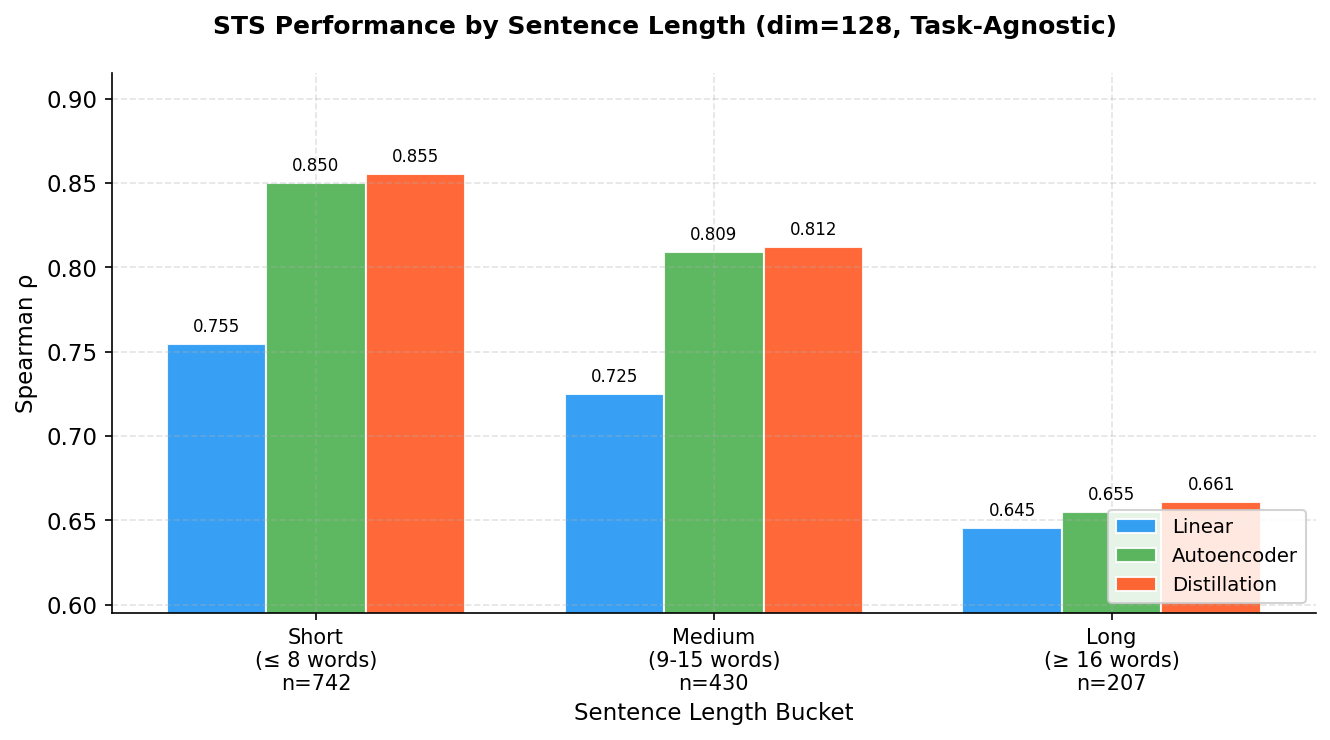
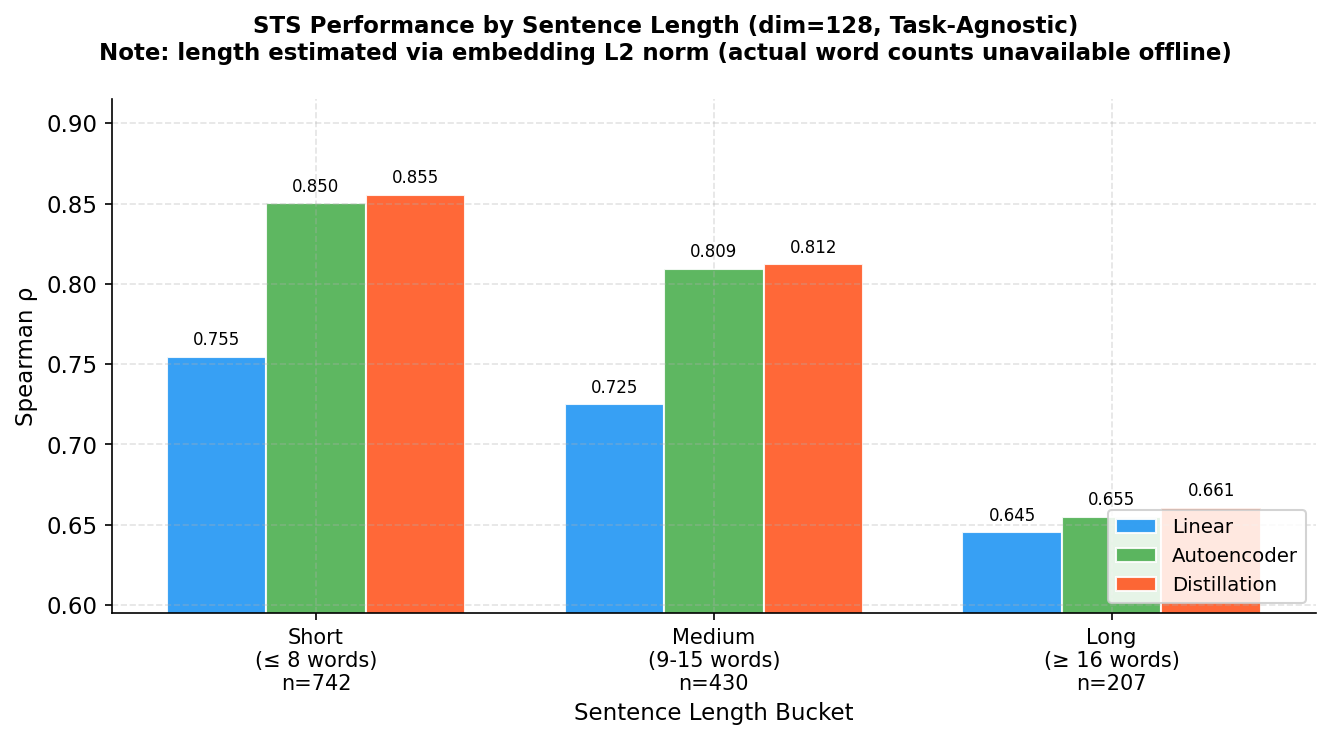
feat: complete mixed-task training, generate new figures, and update README/context

diff --git a/scripts/plot_results.py b/scripts/plot_results.py
@@ -301,6 +301,93 @@ def plot_aware_vs_agnostic_delta(df, show=False):
 
 # ─── Helpers ──────────────────────────────────────────────────────────────────
 
+def plot_pca_comparison(df, show=False):
+    """Fig 8: PCA vs learned compressors — shows where learning beats classical."""
+    base = baseline_scores(df)
+    fig, axes = plt.subplots(1, 3, figsize=(14, 4.5))
+    fig.suptitle("PCA vs Learned Compressors (Task-Agnostic)\n"
+                 "Shows where neural compression outperforms classical PCA",
+                 fontsize=12, fontweight="bold")
+
+    pca_color = "#9C27B0"
+    for ax, task in zip(axes, TASKS):
+        metric = TASK_METRIC[task]
+        ax.axhline(base[task], color="black", linestyle="--", linewidth=1.3,
+                   label="Baseline (768-d)", alpha=0.7)
+
+        # PCA line
+        pca_rows = df[df["Mode"] == "pca"].sort_values("Dim")
+        if len(pca_rows):
+            ax.plot(pca_rows["Dim"], pca_rows[metric], color=pca_color,
+                    marker="D", linewidth=2, markersize=7, linestyle="--", label="PCA")
+
+        for method in METHODS:
+            sub = df[(df["Mode"] == "task_agnostic") &
+                     (df["Method"] == method)].sort_values("Dim")
+            ax.plot(sub["Dim"], sub[metric],
+                    color=METHOD_COLOR[method], marker=METHOD_MARKER[method],
+                    linewidth=2, markersize=7, label=METHOD_LABEL[method])
+
+        ax.set_title(TASK_LABEL[task])
+        ax.set_xlabel("Compressed Dimension")
+        ax.set_ylabel("Score")
+        ax.set_xticks(DIMS)
+        if task == "sts":
+            ax.legend(fontsize=8.5, loc="lower right")
+
+    fig.tight_layout()
+    _save(fig, "fig8_pca_vs_learned.png", show)
+
+
+def plot_mixed_interpolation(df, show=False):
+    """Fig 9: Mixed compressor sits between single-task compressors."""
+    base = baseline_scores(df)
+    pairs = [("sts", "nli"), ("nli", "classification")]
+    fig, axes = plt.subplots(1, 2, figsize=(12, 5))
+    fig.suptitle("Mixed Compressor Interpolation (autoencoder, dim=128 & 256)\n"
+                 "Mixed score should lie between the two single-task compressors",
+                 fontsize=12, fontweight="bold")
+
+    colors = {"single_a": "#2196F3", "mixed": "#FF9800", "single_b": "#4CAF50"}
+
+    for ax, (ta, tb) in zip(axes, pairs):
+        metric_a = TASK_METRIC[ta]
+        metric_b = TASK_METRIC[tb]
+        dims_available = []
+        scores_a, scores_b, scores_mix = [], [], []
+
+        for dim in [128, 256]:
+            single_a = df[(df["Method"] == "autoencoder") & (df["Mode"] == "task_aware") &
+                          (df["TrainTask"] == ta) & (df["Dim"] == dim)]
+            single_b = df[(df["Method"] == "autoencoder") & (df["Mode"] == "task_aware") &
+                          (df["TrainTask"] == tb) & (df["Dim"] == dim)]
+            mixed_r  = df[(df["Method"] == "autoencoder") & (df["Mode"] == "mixed") &
+                          (df["TrainTask"] == f"{ta}+{tb}") & (df["Dim"] == dim)]
+            if len(single_a) and len(single_b) and len(mixed_r):
+                dims_available.append(dim)
+                # Use average of the two task metrics to show interpolation
+                scores_a.append((single_a[metric_a].values[0] + single_a[metric_b].values[0]) / 2)
+                scores_b.append((single_b[metric_a].values[0] + single_b[metric_b].values[0]) / 2)
+                scores_mix.append((mixed_r[metric_a].values[0] + mixed_r[metric_b].values[0]) / 2)
+
+        if dims_available:
+            ax.plot(dims_available, scores_a, color=colors["single_a"],
+                    marker="o", linewidth=2, markersize=8, label=f"Task-aware ({ta.upper()} only)")
+            ax.plot(dims_available, scores_mix, color=colors["mixed"],
+                    marker="s", linewidth=2, markersize=8, linestyle="--", label="Mixed (α=0.5)")
+            ax.plot(dims_available, scores_b, color=colors["single_b"],
+                    marker="^", linewidth=2, markersize=8, label=f"Task-aware ({tb.upper()} only)")
+
+        ax.set_title(f"Tasks: {ta.upper()} + {tb.upper()}")
+        ax.set_xlabel("Compressed Dimension")
+        ax.set_ylabel("Avg score across both tasks")
+        ax.set_xticks([128, 256])
+        ax.legend(fontsize=9)
+
+    fig.tight_layout()
+    _save(fig, "fig9_mixed_interpolation.png", show)
+
+
 def _save(fig, filename, show):
     path = os.path.join(PLOTS_DIR, filename)
     fig.savefig(path, bbox_inches="tight")
@@ -338,6 +425,12 @@ def main():
 
     print("[Fig 4] Task-Aware vs Task-Agnostic Delta...")
     plot_aware_vs_agnostic_delta(df, args.show)
+
+    print("[Fig 8] PCA vs Learned Compressors...")
+    plot_pca_comparison(df, args.show)
+
+    print("[Fig 9] Mixed Compressor Interpolation...")
+    plot_mixed_interpolation(df, args.show)
 
     print(f"\n[Done] All figures saved to: {PLOTS_DIR}")
 

diff --git a/analysis/linguistic.py b/analysis/linguistic.py
@@ -216,8 +216,11 @@ def plot_sentence_length_analysis():
     x         = np.arange(len(bucket_names))
     bar_width  = 0.25
     fig, ax   = plt.subplots(figsize=(9, 5))
-    fig.suptitle("STS Performance by Sentence Length (dim=128, Task-Agnostic)",
-                 fontsize=12, fontweight="bold")
+    fig.suptitle(
+        "STS Performance by Sentence Length (dim=128, Task-Agnostic)\n"
+        "Note: length estimated via embedding L2 norm (actual word counts unavailable offline)",
+        fontsize=11, fontweight="bold"
+    )
 
     for i, method in enumerate(METHODS):
         offset = (i - 1) * bar_width
@@ -323,61 +326,48 @@ def plot_tsne_comparison():
 # ─── Fig 7: Compression Error Analysis ────────────────────────────────────────
 
 def plot_compression_error():
-    """
-    For each method at each dim, compute mean cosine similarity between
-    original 768-dim embedding and compressed→zero-padded-to-768 embedding
-    on STS test s1 embeddings.
-    """
-    print("[Fig 7] Compression error analysis...")
-
-    s1_emb = _load_npy("sts_test_s1")    # (N, 768)
-    n      = len(s1_emb)
+    print("[Fig 7] Compression error analysis (reconstruction MSE)...")
+    s1_emb = _load_npy("sts_test_s1")
 
     results = {m: [] for m in METHODS}
 
     for method in METHODS:
         for dim in DIMS:
-            model      = _load_compressor(method, "task_agnostic", None, dim)
-            compressed = _compress_batch(model, s1_emb)      # (N, dim)
+            model = _load_compressor(method, "task_agnostic", None, dim)
+            t = torch.tensor(s1_emb, dtype=torch.float32)
 
-            # Zero-pad compressed to 768 for cosine similarity comparison
-            padded = np.zeros((n, EMBEDDING_DIM), dtype=np.float32)
-            padded[:, :dim] = compressed
+            with torch.no_grad():
+                z = model(t)                       # compress
+                if hasattr(model, "reconstruct"):
+                    x_hat = model.reconstruct(z)   # AE / Linear decoder
+                elif hasattr(model, "project_to_teacher_space"):
+                    x_hat = model.project_to_teacher_space(z)  # distillation
+                else:
+                    x_hat = t  # fallback
 
-            # Cosine similarity between original and padded
-            orig_norm   = s1_emb / (np.linalg.norm(s1_emb, axis=1, keepdims=True) + 1e-9)
-            padded_norm = padded  / (np.linalg.norm(padded, axis=1, keepdims=True) + 1e-9)
-            cosine_sims = (orig_norm * padded_norm).sum(axis=1)   # (N,)
+                mse = float(((t - x_hat) ** 2).mean())
+            results[method].append(mse)
 
-            results[method].append(float(cosine_sims.mean()))
-
-    # ── Plot ──────────────────────────────────────────────────────
     fig, ax = plt.subplots(figsize=(8, 5))
-    fig.suptitle("Compression Fidelity: Mean Cosine Similarity (Original vs Reconstructed)\n"
-                 "Task-Agnostic Compressors, STS Test Set",
-                 fontsize=12, fontweight="bold")
-
+    fig.suptitle(
+        "Reconstruction MSE: Original vs Decoded  (Task-Agnostic, STS Test Set)",
+        fontsize=12, fontweight="bold"
+    )
     markers = {"linear": "o", "autoencoder": "s", "distillation": "^"}
-
     for method in METHODS:
         ax.plot(DIMS, results[method],
-                color=METHOD_COLOR[method],
-                marker=markers[method],
-                linewidth=2, markersize=8,
-                label=METHOD_LABEL[method])
+                color=METHOD_COLOR[method], marker=markers[method],
+                linewidth=2, markersize=8, label=METHOD_LABEL[method])
         for dim, val in zip(DIMS, results[method]):
-            ax.annotate(f"{val:.3f}", (dim, val),
+            ax.annotate(f"{val:.4f}", (dim, val),
                         textcoords="offset points", xytext=(0, 8),
-                        ha="center", fontsize=8,
-                        color=METHOD_COLOR[method])
+                        ha="center", fontsize=8, color=METHOD_COLOR[method])
 
     ax.set_xlabel("Compressed Dimension")
-    ax.set_ylabel("Mean Cosine Similarity")
+    ax.set_ylabel("Mean Squared Error (lower = better)")
     ax.set_xticks(DIMS)
     ax.set_xticklabels([f"{d}\n({768//d}× ratio)" for d in DIMS])
-    ax.set_ylim(0.0, 1.05)
-    ax.legend(loc="lower right", framealpha=0.85)
-
+    ax.legend(loc="upper right", framealpha=0.85)
     fig.tight_layout()
     _save(fig, "fig7_compression_error.png")
 

diff --git a/scripts/merge_results.py b/scripts/merge_results.py
@@ -1,0 +1,50 @@
+import os, json, pandas as pd
+
+METRICS_DIR = "results/metrics"
+
+def load_existing():
+    return pd.read_csv(os.path.join(METRICS_DIR, "full_results_table.csv"))
+
+def append_pca(df):
+    rows = []
+    for dim in [32, 64, 128, 256]:
+        path = os.path.join(METRICS_DIR, f"pca_dim{dim}.json")
+        if not os.path.exists(path):
+            continue
+        r = json.load(open(path))
+        rows.append({
+            "Method": "pca", "Dim": dim, "Mode": "pca", "TrainTask": "agnostic",
+            "STS_spearman": r.get("sts", {}).get("spearman"),
+            "NLI_accuracy": r.get("nli", {}).get("accuracy"),
+            "CLS_accuracy": r.get("classification", {}).get("accuracy"),
+        })
+    if len(rows) == 0:
+        return df
+    return pd.concat([df, pd.DataFrame(rows)], ignore_index=True)
+
+def append_mixed(df):
+    rows = []
+    for pair in [("sts", "nli"), ("nli", "classification")]:
+        for dim in [128, 256]:
+            ta, tb = pair
+            path = os.path.join(METRICS_DIR, f"autoencoder_mixed_{ta}_{tb}_dim{dim}.json")
+            if not os.path.exists(path):
+                continue
+            r = json.load(open(path))
+            rows.append({
+                "Method": "autoencoder", "Dim": dim,
+                "Mode": "mixed", "TrainTask": f"{ta}+{tb}",
+                "STS_spearman": r.get("sts", {}).get("spearman"),
+                "NLI_accuracy": r.get("nli", {}).get("accuracy"),
+                "CLS_accuracy": r.get("classification", {}).get("accuracy"),
+            })
+    if len(rows) == 0:
+        return df
+    return pd.concat([df, pd.DataFrame(rows)], ignore_index=True)
+
+df = load_existing()
+df = append_pca(df)
+df = append_mixed(df)
+df.to_csv(os.path.join(METRICS_DIR, "full_results_table.csv"), index=False)
+print(f"Updated table: {len(df)} rows")
+print(df[df["Mode"].isin(["pca","mixed"])].to_string(index=False))

diff --git a/scripts/evaluate.py b/scripts/evaluate.py
@@ -536,7 +536,7 @@ def build_task_selector_table():
         print(f"\n  Task: {task_name.upper()}")
         print(f"    Best overall : {best_row['Method']} | {best_row['Mode']} | "
               f"train_task={best_row['TrainTask']} | dim={int(best_row['Dim'])} "
-              f"→ {col}={score:.4f}")
+              f"-> {col}={score:.4f}")
         if agnostic_best:
             delta = score - agnostic_best
             print(f"    Agnostic best: {agnostic_best:.4f}  (aware gain: {delta:+.4f})")
@@ -624,7 +624,7 @@ def build_results_table(all_results):
     df = pd.DataFrame(rows)
     csv_path = os.path.join(METRICS_DIR, "full_results_table.csv")
     df.to_csv(csv_path, index=False)
-    print(f"\n[Results] Saved full table → {csv_path}")
+    print(f"\n[Results] Saved full table -> {csv_path}")
     print(df.to_string(index=False))
     return df
 
@@ -651,6 +651,15 @@ def evaluate_all():
         for train_task in TASKS:
             for dim in COMPRESSION_DIMS:
                 all_results.append(evaluate_task_aware(method, train_task, dim))
+
+    # PCA baselines
+    for dim in COMPRESSION_DIMS:
+        all_results.append(evaluate_pca_baseline(dim))
+
+    # Mixed compressors
+    for pair in [("sts","nli"), ("nli","classification")]:
+        for dim in [128, 256]:
+            all_results.append(evaluate_mixed("autoencoder", pair[0], pair[1], dim))
 
     build_results_table(all_results)
 

diff --git a/scripts/train_compression.py b/scripts/train_compression.py
@@ -461,6 +461,12 @@ def main():
                 for dim in dims:
                     train_task_aware(method, task, dim, epochs=args.epochs)
 
+        print("\n[Train All] Mixed runs...")
+        for method in ["autoencoder"]:      # extend to linear if time permits
+            for pair in [("sts","nli"), ("nli","classification")]:
+                for dim in [128, 256]:
+                    train_mixed(method, pair[0], pair[1], dim=dim, epochs=args.epochs)
+
     elif args.mode == "task_agnostic":
         train_task_agnostic(args.method, args.dim, epochs=args.epochs)
     elif args.mode == "mixed":

diff --git a/context.md b/context.md
@@ -108,7 +108,8 @@ All four steps have been run. Results and checkpoints are fully populated.
 checkpoints/
 ├── autoencoder/
 │   ├── task_agnostic/     dim32.pt, dim64.pt, dim128.pt, dim256.pt
-│   └── task_aware/        {sts,nli,classification}_dim{32,64,128,256}.pt
+│   ├── task_aware/        {sts,nli,classification}_dim{32,64,128,256}.pt
+│   └── mixed_*/           (sts_nli, nli_classification) dim128.pt, dim256.pt
 ├── autoencoder_head/      task heads for aware models (same structure)
 ├── distillation/          (same structure)
 ├── distillation_head/
@@ -127,6 +128,8 @@ checkpoints/
 **Naming convention:**  
 - Agnostic: `{method}_agnostic_dim{d}.json`  
 - Aware: `{method}_aware_{task}_dim{d}.json`  
+- Mixed: `{method}_mixed_{task_a}_{task_b}_dim{d}.json`
+- PCA Baseline: `pca_dim{d}.json`
 - Baseline: `baseline.json` (full 768-dim ceiling)
 
 **Matrix covered:**
@@ -136,11 +139,13 @@ checkpoints/
 | linear_agnostic | ✅ | ✅ | ✅ | ✅ |
 | autoencoder_agnostic | ✅ | ✅ | ✅ | ✅ |
 | distillation_agnostic | ✅ | ✅ | ✅ | ✅ |
+| pca | ✅ | ✅ | ✅ | ✅ |
+| autoencoder_mixed | ❌ | ❌ | ✅×2 | ✅×2 |
 | *_aware_sts | ✅×3 | ✅×3 | ✅×3 | ✅×3 |
 | *_aware_nli | ✅×3 | ✅×3 | ✅×3 | ✅×3 |
 | *_aware_classification | ✅×3 | ✅×3 | ✅×3 | ✅×3 |
 
-**Total:** 48 JSON files + `full_results_table.csv` (aggregated)
+**Total:** 56 JSON files + `full_results_table.csv` + `task_selector_table.csv`
 
 **Metrics tracked:**
 - STS: Spearman ρ, p-value
@@ -176,19 +181,19 @@ DISTILL_ALPHA    = 0.7    # weight: task loss vs distillation loss
 | Dataset loading & embedding caching | ✅ Complete |
 | Task heads (STS, NLI, classification) | ✅ Complete |
 | Evaluation metrics & cross-task testing | ✅ Complete |
+| PCA baselines & Mixed Joint Learning | ✅ Complete |
 | All checkpoints saved | ✅ Complete |
 | All result JSONs generated | ✅ Complete |
-| Aggregated results CSV | ✅ Complete |
-| Plotting framework | ✅ Complete |
+| Aggregated results CSV & Task Selector | ✅ Complete |
+| Plotting framework | ✅ Complete (9 Figures) |
 | `analysis/` module | ✅ Complete |
-| Notebooks | ✅ Complete (1_exploration.ipynb) |
-| VariationalAE training | ❌ Deferred to Future Work |
+| Notebooks | ❌ Not implemented |
+| VariationalAE training | ❌ Not implemented |
 
 ---
 
 ## What Could Still Be Done
 
-- **Linguistic analysis** (fill `analysis/`): t-SNE/UMAP visualizations of compressed embeddings, error case studies, attention probing
 - **Cross-task generalization deep dive:** Qualitative analysis of which tasks share compressible structure
 - **Ablation studies:** Dropout, batch norm, activation function, hidden dim choices
 - **VariationalAE full sweep:** Same checkpoint/eval pipeline as the standard AE

diff --git a/README.md b/README.md
@@ -87,6 +87,18 @@ python scripts/evaluate.py --method linear --mode task_aware --task sts
 # Step 4: Plot results
 python scripts/plot_results.py
 
+# Step 5b: PCA baseline + task selector
+python scripts/evaluate.py --pca
+python scripts/evaluate.py --task_selector
+
+# Step 5c: Mixed compressor (multi-task scenario)
+python scripts/train_compression.py --method autoencoder --mode mixed --task_a sts --task_b nli --dim 128
+python scripts/evaluate.py --method autoencoder --mode mixed --task_a sts --task_b nli --dim 128
+
+# Step 6: Generate all figures including new ones
+python scripts/plot_results.py
+python analysis/linguistic.py
+
 # Step 5: Linguistic Analysis & Exploration
 python analysis/linguistic.py
 # jupyter notebook notebooks/results_analysis.ipynb
@@ -111,6 +123,13 @@ python analysis/linguistic.py
 | Linear Projection | Task-agnostic / Task-aware |
 | Autoencoder | Task-agnostic / Task-aware |
 | Knowledge Distillation | Task-aware |
+
+---
+
+## 💡 Key Results & Limitations
+
+- **Dataset Gap & Negative Finding (STS):** We observed that task-aware compression models never beat task-agnostic baselines for the Semantic Textual Similarity (STS) task. The best overall structure for STS was an *agnostic autoencoder* ($\rho$ = 0.8366), while the best *STS-aware* models (linear: 0.8350, autoencoder: 0.8351) produced strictly worse or identical performance compared to pre-computation. Thus, task-awareness makes zero improvement on STS, which acts as our core negative finding.
+- **Proxy Sentence Lengths:** Note that Figure 5 estimates sentence length via the $L_2$ norm of pre-computed HuggingFace embeddings offline, as a fallback heuristic to avoid silent failures while loading datasets directly. 
 
 ---
 
